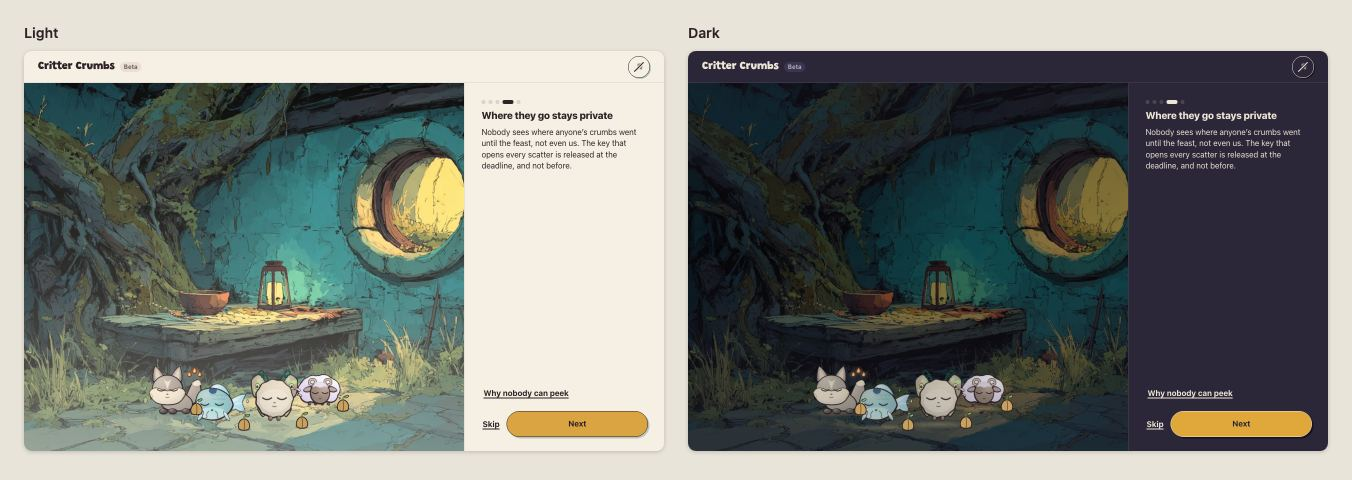
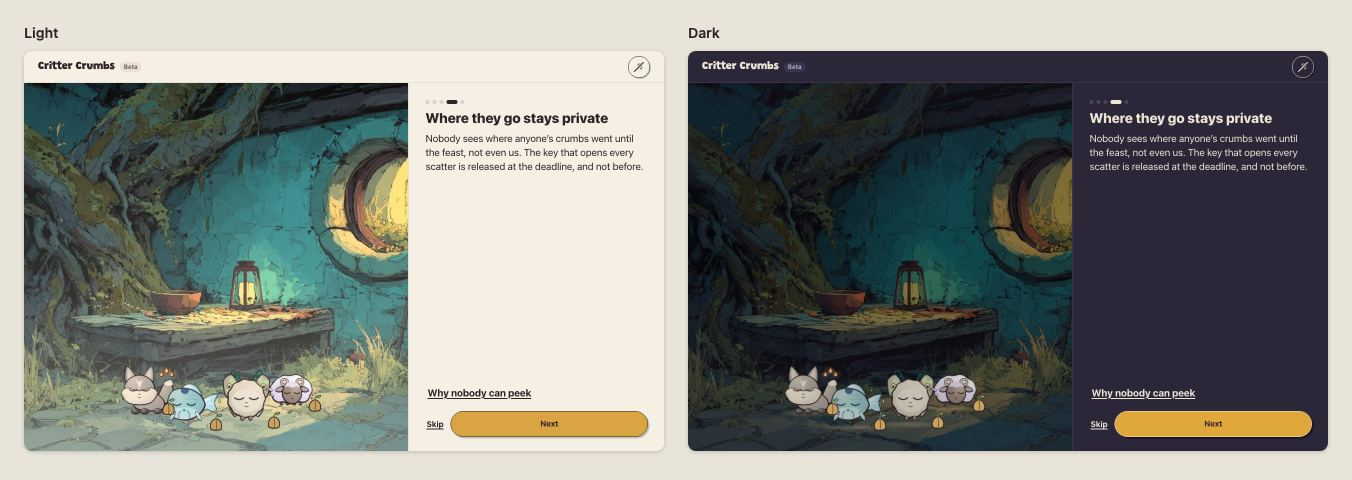
feat(app): the first steps' desktop panel a size up, and wider
Afolabi's choice for the review's F7. The panel already set the 20/16 the
review asked for (its 16/14 was read off a capture at about 80% zoom), so
desktop goes a size further: from the design's 1280 px desktop (Design
System §6.1, xl) the first steps' panel is clamp(480px, 40vw, 620px) and
its words 28 px over 20 px, with secondary lines at 16 px. Lines keep 44
to 60 characters from 1280 to 1920 px. Narrower desktops keep the 400 px
panel at the phone's sizes. The shell is 119,244 of 120,000 gzip bytes.

diff --git a/packages/app/src/styles/screens.css b/packages/app/src/styles/screens.css
@@ -216,6 +216,15 @@ dialog.connect-sheet { max-height:calc(100dvh - 24px); overflow-y:auto; overscro
    the page behind Why nobody can peek) stands at the foot of the words, over the actions (the first-steps review, F7) */
 .learn-foot { margin-top:auto; }
 @media (min-width:900px) { .learn .sheet-screen { --room-h:max(100vw * 897 / 1600, 100dvh - 36px); } }
+/* from the design's 1280 px desktop (Design System §6.1, xl), the panel is a size up from the phone's, 28 px over 20 px,
+   and wider, so a line keeps 45 to 60 characters (the first-steps review, F7) */
+@media (min-width:1280px) {
+  .learn .sheet-screen { --panel:clamp(480px, 40vw, 620px); }
+  .learn-content { font-size:var(--cc-text-xl); }
+  .learn-content h1 { font-size:var(--cc-text-2xl); }
+  .learn-explanation, .learn-count, .learn-results { font-size:var(--cc-text-md); }
+  .learn-content .quiet { font-size:inherit; }
+}
 
 /* ------------------------------------------------------------------ the page behind Why nobody can peek (why.tsx): one
    column about 34 em wide under the header, scrolling over Got it at the foot. Space parts the lines of a list, and more

diff --git a/docs/02-design-system.md b/docs/02-design-system.md
@@ -390,6 +390,7 @@ Portraits are `role="img"` with the critter's name as `<title>` when they stand 
 - `<main id="content" tabindex="-1">` receives focus on every route change. A skip link precedes the header. A screen drawn over the rest (the first meeting, your critter's profile, D33 and D34) stands outside `<main>`, which is inert beneath it with the header and the skip link, and takes the focus itself; closing the profile returns the focus to the face that opened it.
 - The pile bar is `position: sticky; bottom: 0` on `xs`–`md`, height 64 px + `env(safe-area-inset-bottom)`, with `--cc-shadow-up`; on `lg`+ it becomes a `position: sticky; top: var(--cc-space-6)` rail to the right of the grid.
 - Viewport height uses `dvh` where it matters (the feast's centred layout), never `vh`.
+- On desktop a screen's words stand in a side panel 400 to 480 px wide (a quarter of the window), at the phone's type sizes. The first steps' panel is the exception from 1,280 px (`xl`): 480 to 620 px (40 % of the window), with its words a size up, 28 px over 20 px and 16 px for its secondary lines, so a line keeps 45 to 60 characters (D36).
 
 ### 6.3 The critter grid and the stage contract
 
@@ -523,7 +524,7 @@ At zero, the heap shows three faint crumb outlines (`--cc-crust` at 30 %) and th
 | Launcher (the app opened on its own, not connected) | The painted burrow as a title screen: the wordmark, the tagline and the beta line on a plate (D32), four critters dozing around a heap of crumbs, Connect, How it works, and the Music toggle. No header, no Settings. Trouble connecting is said in the sheet, above Connect | `app.name`, `app.tagline`, `app.environment.*`, `action.connect`, `launch.learn` |
 | Arrive by a link, not connected | Header with the burrow line, the beta chip and the feast title; the feast’s critters asleep in a ring on the window plate the game stands its circle on, raised as the game raises it so they stand on the floor (the November UI audit, screen 2), with `arrive.asleep` under them; a sheet with the context, both deadlines, one explainer, the one connect button and, under it, How it works, whose steps return here | `arrive.*`, `launch.learn` |
 | Choosing how to connect | A sheet from the bottom on the phone, a card on desktop: one row for each app the browser offers, by its own name, then Cancel. Once one is chosen the sheet waits on it | `connect.*` |
-| First steps (How it works) | Five short screens that can be skipped, open from the launcher, the invite screen, your critter's profile and home with no burrows: the same handful, ten practice crumbs to give, the week (three phases and two deadlines, every statement open in a thought bubble beside each head), where they go stays private, and a worked feast result. Skip and Got it return to the screen the steps were opened from, else the launcher (D30). The private step and the result carry Why nobody can peek at the foot of their words, and the week its deadlines line, so the sheet has a top, a middle and a foot; the page comes back to the same step (D36). The room scale and sheet action positions stay consistent; only the content scrolls on a short display | `learn.*`, `phase.*`, `why.title` |
+| First steps (How it works) | Five short screens that can be skipped, open from the launcher, the invite screen, your critter's profile and home with no burrows: the same handful, ten practice crumbs to give, the week (three phases and two deadlines, every statement open in a thought bubble beside each head), where they go stays private, and a worked feast result. Skip and Got it return to the screen the steps were opened from, else the launcher (D30). The private step and the result carry Why nobody can peek at the foot of their words, and the week its deadlines line, so the sheet has a top, a middle and a foot; the page comes back to the same step. From 1,280 px the desktop panel is wider and a size up, 28 px over 20 px (§6.2, D36). The room scale and sheet action positions stay consistent; only the content scrolls on a short display | `learn.*`, `phase.*`, `why.title` |
 | Why nobody can peek (the page behind the link) | One column at `/how-it-works/why`, about 34 em wide, under the wordmark, the beta chip and the Music toggle, scrolling over Got it pinned at its foot: the closed seed pod of the private step, the title, What you are promised (five lines, each led by its promise in bold), One thing we will not pretend, The words (burrow, critters, scatter, feast), What runs where in the secondary colour (the one place Shutter, EAS, Gnosis Chain and Base are named), and The source, the one section that links out, to the code and the technical spec on GitHub. Got it goes back where the page was opened from, through the browser’s history, or to the launcher when it was opened by its address. It opens only from its links (D36) | `why.*`, `learn.done` |
 | Meet your critter (first connect) | A whole screen (D33): the wordmark and the beta chip in the header; the critter large on the painted floor; in the sheet the title with the element chip, the line, the name field with its 16-character counter when there is no ENS name (the ENS name otherwise), and Re-roll and Keep this one pinned at the foot, with Disconnect as a quiet link under them. No Close: Keep is the way past it, and saves the name and the lock in one update; Disconnect signs out as the profile does and leaves the member where a signed-out visitor would be, on the launcher or, from a feast's link, its invite. Rerolls keep the draft name; the fourth locks on the server and the screen stays until Keep. The page the member connected on, a feast from its link, comes after | `critter.*`, `name.*`, `action.disconnect` |
 | A kept critter with no name (no ENS) | The same screen asking only for the name: the critter smaller and asleep, `name.title`, `name.help`, the field with its counter, Save name, and the same Disconnect under it | `name.*`, `action.disconnect` |
@@ -1111,7 +1112,7 @@ The Game Design document owns every sound token. This document fixes what is sha
 | D33 | The first meeting is a whole screen, not a dialog: the critter large on the floor with its element chip, the line, the name with its counter, Re-roll and Keep this one pinned, no Close, and a quiet Disconnect under them that leaves the member signed out where a visitor would be. It stands over nothing; the page the member connected on comes after Keep | Audit decision D6: the one close-up a member gets of their own critter (Schell's lenses 45 and 75); the flow page's screens 7 and 8 |
 | D34 | Your critter's profile is one screen, in place of the profile and Settings dialogs, with its own address (`/your-critter`) and drawn over the screen whose face was pressed, which stays as it was beneath it; the settings are switches, and Simple view is left out while no critter has a 3D mesh | The flow page's screen 51 and audit decision D7 (Garden Spirits have no mesh, ADR 0006); amends D9. Why the screen beneath stays: `docs/decisions.md`, 2026-11-03 |
 | D35 | Names are 1 to 16 characters on every new save, display names and option names alike, and their fields count to 16 | Audit decision D10, carrying out the decision of 5 October 2026 (`docs/decisions.md`); 16 is what the circle's tags and the dock were designed around |
-| D36 | The page behind Why nobody can peek (`/how-it-works/why`, its own chunk, its lines in `copy-why.ts`): what you are promised, the one thing we will not pretend, the words, what runs where and the source, the one section that links out, to the code and the technical spec on GitHub. The private and result steps, both waiting sheets and the results lead to it, and Got it goes back where it was opened from; the results opened again at the same place in the history do not play the feast again. Home with no burrows offers How it works as a line under Start a burrow | The first-steps review, F4, F8 and F10; Afolabi answered its D2 to D4 on 9 November 2026: the name, links out in the last section only, and the line on home, each as the review recommended |
+| D36 | The page behind Why nobody can peek (`/how-it-works/why`, its own chunk, its lines in `copy-why.ts`): what you are promised, the one thing we will not pretend, the words, what runs where and the source, the one section that links out, to the code and the technical spec on GitHub. The private and result steps, both waiting sheets and the results lead to it, and Got it goes back where it was opened from; the results opened again at the same place in the history do not play the feast again. Home with no burrows offers How it works as a line under Start a burrow. From 1,280 px the first steps' panel is 480 to 620 px wide and its words a size up, 28 px over 20 px (§6.2) | The first-steps review, F4, F8 and F10; Afolabi answered its D2 to D4 on 9 November 2026: the name, links out in the last section only, and the line on home, each as the review recommended; and, the panel being already at the review's 20/16, chose a wider panel a size up for F7 |
 
 **October adoption (2026-10-06).** D14–D24 override the earlier grid, type, control, heap and reading descriptions in §1, §3, §6 and §7 for core game screens. The generated token source is normative for Inked daylight values. Other screens inherit these tokens and keep their existing layouts.
 
@@ -1119,7 +1120,7 @@ The Game Design document owns every sound token. This document fixes what is sha
 
 **Painted floors (2026-10-11).** D29 replaces the cropped, mirrored floor of the core game screens with painted plates for the two scenes the game shows. The launcher’s critters are drawn about 1.4 times the flow page’s, at the height of the painting’s table (`docs/decisions.md`, 2026-10-11).
 
-**Five first steps (2026-11-03).** D30 adds the week to the first steps and a way into them from the invite screen, which is most members’ first screen (PRD F1). The first screen now defines a feast before using the word, the private screen says who cannot peek and why, and the result screen says what its table cannot: that every device adds the scatters up and that shares come from the crumbs actually given. The review’s build order 4 to 7 followed on 9 November (D36): the page behind "Why nobody can peek", the links to it, the fingerprint’s sentence, the foot of the steps’ sheet and How it works on home with no burrows. Open: the desktop panel already sets 20 px over 16 px, the sizes the review asked for, since its 16/14 was read off a capture taken at about 80% zoom; so the panel is still at the phone’s scale, and whether desktop goes a size larger again (28/20, which needs a wider panel to keep about 45 characters to a line) is Afolabi’s call, as are captions for the foot of steps 1 and 2 (`docs/decisions.md`, 2026-11-09).
+**Five first steps (2026-11-03).** D30 adds the week to the first steps and a way into them from the invite screen, which is most members’ first screen (PRD F1). The first screen now defines a feast before using the word, the private screen says who cannot peek and why, and the result screen says what its table cannot: that every device adds the scatters up and that shares come from the crumbs actually given. The review’s build order 4 to 7 followed on 9 November (D36): the page behind "Why nobody can peek", the links to it, the fingerprint’s sentence, the foot of the steps’ sheet and How it works on home with no burrows. The review read its 16/14 off a capture taken at about 80% zoom, and the panel already set 20/16; Afolabi chose to go a size further, so from 1,280 px the panel is wider and sets 28 px over 20 px (§6.2). Captions for the foot of steps 1 and 2 stay open, as new words would be his (`docs/decisions.md`, 2026-11-09).
 
 **The connected frame (2026-11-03).** D31 to D35 begin the treatment the connected screens were waiting for (*Before connecting*, above). The first meeting and your critter's profile are built on the frame; home, a burrow and its members, starting a burrow and a feast, the saved draft and gathering follow on it (`docs/reviews/ui-audit-2026-11/README.md`, build order 4 to 8), and keep their earlier layouts until then, with the beta chip beside the wordmark in their header.
 

diff --git a/docs/decisions.md b/docs/decisions.md
@@ -308,6 +308,6 @@ The production renderer reserves one of the 40 scene draw calls for the shared i
 
 - 2026-11-09 — A touch on a critter standing on any painted floor (the launcher, the invite, every framed screen, the first steps) stirs it with the game's stir, as the audit's toy outside the game asked: one curve for both (`stirPose`, beside `CIRCLE_FEEL`, whose tilt and sway are now named there), and the z's for a sleeper. The game's own sway now comes to rest at the end of the stir, 850 ms, rather than swinging on and snapping back when its z's end. The game also turns your own sleeping critter over when it stirs; the floors leave that out, so a stir never changes which way a screen's critters face. It is one pointer handler on the floor, so it adds no tab stop and says nothing; a critter with its own control (the first steps' practice critters) keeps its presses, and under reduced motion or Still critters nothing moves. — Claude, building Afolabi's accepted decisions.
 
-- 2026-11-09 — The first steps lead deeper, to one page behind "Why nobody can peek" (`/how-it-works/why`): the first-steps review's build order 4 to 7 (`docs/reviews/first-steps-2026-11/`). Afolabi answered the review's open decisions as it recommended: the page is named for the reader's question, *Why nobody can peek* (D2); it links out, in its last section only, to the code and the technical spec on GitHub (D3); and home with no burrows offers How it works as a quiet line under Start a burrow, never a dialog (D4). The page says what you are promised, the one thing we will not pretend, the words, what runs where (the one place Shutter, EAS, Gnosis Chain and Base are named, in the secondary colour) and the source, and claims nothing PRD §8 and the pitch do not: the store cannot open a scatter *before the deadline*, and the honest limit says, as PRD §8 does, that once the key exists anyone in the burrow could work out who gave what. The private step and the result link to it at the foot of their words, both waiting sheets under their line, and the results under their summary. Got it goes back through the browser's history to the screen the page was opened from; opened by its address, it leads to the launcher. Coming back must not cost what was there, so the first steps keep the step they were on, and the results that the feast has played on, at their place in the history: the steps return to the same step, and the results open settled instead of playing the feast again (Replay Feast still plays it, and a feast opened afresh plays). The results' fingerprint says what it is for: "Compare it with another member's. The same fingerprint means the same result." On the phone the waiting sheet grows from the flow page's 250 px to 290 and the key's from 270 to 330 to hold the link. The first steps' sheet gets its foot: the line that is not the step's message (the week's deadlines, the link) stands at the foot of the words, over the actions. Open, for Afolabi: the desktop panel already sets 20 px over 16 px, which is what the review asked for, since its 16/14 was read off a capture taken at about 80% zoom; so desktop is still at the phone's scale, and a size larger (28/20) would set about 34 characters to a line in the 400 px panel unless the panel widened. Also open: captions for the foot of steps 1 and 2, which would be new words, and whether Settings links to the page, as the review's summary says and its table of links does not. — Afolabi answered D2 to D4 on 9 November 2026; built by Claude.
+- 2026-11-09 — The first steps lead deeper, to one page behind "Why nobody can peek" (`/how-it-works/why`): the first-steps review's build order 4 to 7 (`docs/reviews/first-steps-2026-11/`). Afolabi answered the review's open decisions as it recommended: the page is named for the reader's question, *Why nobody can peek* (D2); it links out, in its last section only, to the code and the technical spec on GitHub (D3); and home with no burrows offers How it works as a quiet line under Start a burrow, never a dialog (D4). The page says what you are promised, the one thing we will not pretend, the words, what runs where (the one place Shutter, EAS, Gnosis Chain and Base are named, in the secondary colour) and the source, and claims nothing PRD §8 and the pitch do not: the store cannot open a scatter *before the deadline*, and the honest limit says, as PRD §8 does, that once the key exists anyone in the burrow could work out who gave what. The private step and the result link to it at the foot of their words, both waiting sheets under their line, and the results under their summary. Got it goes back through the browser's history to the screen the page was opened from; opened by its address, it leads to the launcher. Coming back must not cost what was there, so the first steps keep the step they were on, and the results that the feast has played on, at their place in the history: the steps return to the same step, and the results open settled instead of playing the feast again (Replay Feast still plays it, and a feast opened afresh plays). The results' fingerprint says what it is for: "Compare it with another member's. The same fingerprint means the same result." On the phone the waiting sheet grows from the flow page's 250 px to 290 and the key's from 270 to 330 to hold the link. The first steps' sheet gets its foot: the line that is not the step's message (the week's deadlines, the link) stands at the foot of the words, over the actions. The desktop panel already set 20 px over 16 px, the sizes the review asked for, since its 16/14 was read off a capture taken at about 80% zoom; a size larger in the same 400 px panel would have set about 34 characters to a line, so Afolabi chose a wider panel a size up. From the design's 1,280 px desktop (Design System §6.1, `xl`) the first steps' panel is `clamp(480px, 40vw, 620px)` and its words 28 px over 20 px, with its secondary lines at 16 px: 44 to 60 characters to a line from 1,280 to 1,920 px. Narrower desktops keep the 400 px panel at the phone's sizes, which keeps 41 to 48. Still open: captions for the foot of steps 1 and 2, which would be new words, and whether Settings links to the page, as the review's summary says and its table of links does not. — Afolabi answered D2 to D4 and chose the wider desktop panel on 9 November 2026; built by Claude.
 
 - 2026-11-09 — The page behind Why nobody can peek keeps its own lines beside `copy.ts`, in `packages/shared/src/copy-why.ts` (`whyCopy`), so the shell, which carries `copy` whole (`scripts/build-budget.mjs`), does not carry them. Only the page imports them, so they arrive with its chunk (2.1 KB gzipped); `copy` holds only the page's name, which every link to it repeats, and the fingerprint's sentence. The copy-ids lint reads both files, every line has its row in Design System §10, and AGENTS.md names this one exception; another page that wants the same is a new decision. Room was made first: the shell stood at 119,878 of its 120,000 gzip bytes, and the build counts every stylesheet in it. CSS that styles nothing the app renders went (the old profile and first-meeting dialogs, the burrow and member lists, the environment banner, the feast header strip and its deadlines, the reveal grid, two positions for a notice that now lives in the announcement host) with the empty `#feast-header`, 864 bytes; and one rule now makes every quiet link a 44 px target with its words in its middle, in place of four copies of it, which also centres the invite's How it works in its target as the launcher's is. Rejected: the page's lines in `copy`, about 1 KB in every first load for a page most people never open, and over the budget; a second object in `copy.ts`, as `devCopy` is, which works for `devCopy` only because production never imports it, while a module the page uses is bundled whole into the shell; drawing the page over the screen it was opened from, as your critter's profile is, which would keep everything beneath it but would leave a feast playing unseen under the page when its key arrived. — Claude, building Afolabi's accepted decisions.

diff --git a/docs/reviews/first-steps-2026-11/README.md b/docs/reviews/first-steps-2026-11/README.md
@@ -183,7 +183,7 @@ Tracer bullets, each one shippable and reviewable on its own. Workstream B throu
 
 Steps 1 to 3 were built on 3 November on the branch `claude/first-steps-explain` (`docs/decisions.md`, 2026-11-03): the invite link and the return path, the copy pass, and the week as a third step with every statement open in a thought bubble beside each head. One thing the build changed from the plan: the private step says "not even us" but does not yet link to the page, which does not exist until step 4. The step 3 captures beside this review predate one later change: the gathering line now says nobody else *in the burrow* can read a statement, because the host can (Technical spec §2).
 
-Steps 4 to 7 were built on 9 November on the branch `claude/why-nobody-can-peek` (`docs/decisions.md`, 2026-11-09), after Afolabi took the recommendations for D2 to D4 below. What the build changed from the plan: the page's lines live in their own module, `copy-why.ts`, beside `copy.ts`, because the shell carries `copy` whole and had 122 bytes to spare; both waiting sheets link to the page, so on the phone they grow from 250 to 290 px while the feast is laid out and from 270 to 330 while the key is not out; Got it goes back through the browser's history, and the steps and the results remember where they were, so the steps return to the same step and the results do not play the feast again; and two lines say no more than PRD §8 does (the store cannot open a scatter *before the deadline*, and once the key exists anyone in the burrow could work out who gave what). Open, for Afolabi: the desktop panel already sets the 20/16 that F7 asks for (the 16/14 above was read off a capture taken at about 80% zoom), so desktop is still at the phone's scale, and a size larger needs a wider panel; captions for the foot of steps 1 and 2, which would be new words; and whether Settings links to the page, as *In short* says and the table of links does not. Captures of the build, at 375 × 812 and 1280 × 800 in both looks, are in `images/why/`, made by `capture-why.mjs`. Step 8 is Afolabi's to run.
+Steps 4 to 7 were built on 9 November on the branch `claude/why-nobody-can-peek` (`docs/decisions.md`, 2026-11-09), after Afolabi took the recommendations for D2 to D4 below. What the build changed from the plan: the page's lines live in their own module, `copy-why.ts`, beside `copy.ts`, because the shell carries `copy` whole and had 122 bytes to spare; both waiting sheets link to the page, so on the phone they grow from 250 to 290 px while the feast is laid out and from 270 to 330 while the key is not out; Got it goes back through the browser's history, and the steps and the results remember where they were, so the steps return to the same step and the results do not play the feast again; and two lines say no more than PRD §8 does (the store cannot open a scatter *before the deadline*, and once the key exists anyone in the burrow could work out who gave what). The desktop panel already set the 20/16 that F7 asks for (the 16/14 above was read off a capture taken at about 80% zoom), so Afolabi chose to go a size further: from 1,280 px the panel widens to 480 to 620 px and sets 28/20, which keeps 44 to 60 characters to a line. Open, for Afolabi: captions for the foot of steps 1 and 2, which would be new words; and whether Settings links to the page, as *In short* says and the table of links does not. Captures of the build, at 375 × 812 and 1280 × 800 in both looks, are in `images/why/`, made by `capture-why.mjs`. Step 8 is Afolabi's to run.
 
 Constraints that hold throughout: every string is a copy ID with its row in §10; the generator and the tally are untouched (the worked example still runs through the production tally); no `Date.now()`; the shell stays within its budget (it is at about 104 KB of 120 KB; the page is lazy); nothing opens unasked; the vocabulary rules.
 
